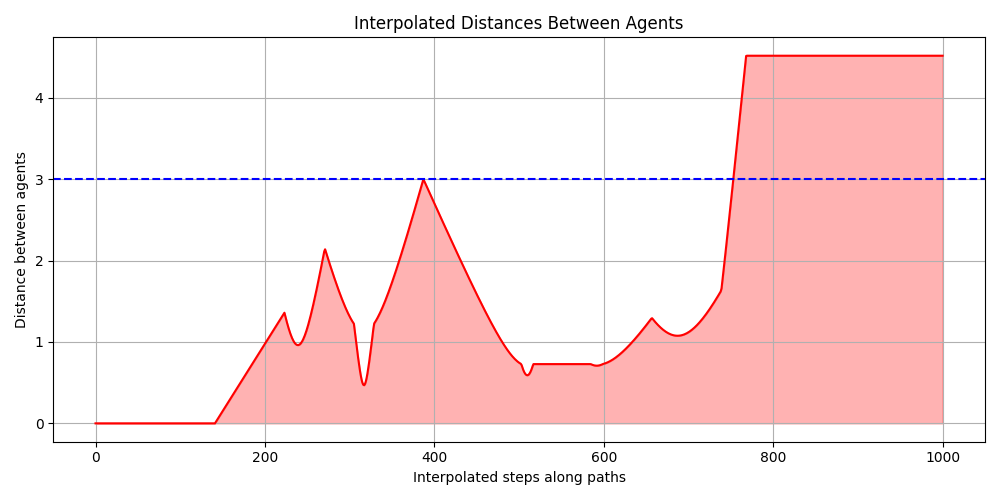
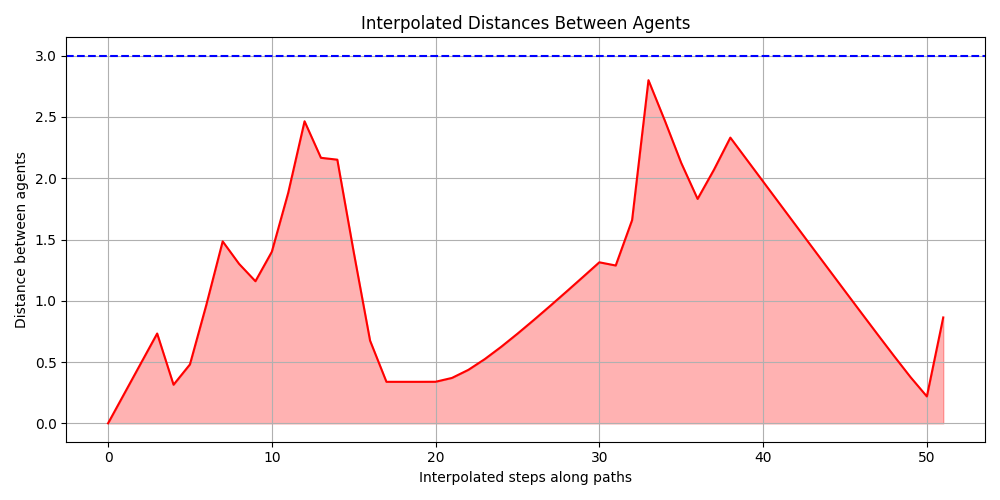
new interpolation function

diff --git a/utils.py b/utils.py
@@ -110,56 +110,68 @@ def assign_crowding_dist(population):
                     cur[1].fitness.crowding_dist += dist
 
 
-def interpolate_paths(path1: list, path2: list, positions: np.ndarray, num_samples: int = 100) -> tuple:
+def interpolate_paths(path1: list, path2: list, positions: np.ndarray, n: float) -> tuple:
+    interpolated_path1 = interpolate_path(path1, positions, n)
+    interpolated_path2 = interpolate_path(path2, positions, n)
+
+    if len(interpolated_path1) > len(interpolated_path2):
+        interpolated_path2 = np.vstack((interpolated_path2, [interpolated_path2[-1]] * (len(interpolated_path1) - len(interpolated_path2))))
+    elif len(interpolated_path2) > len(interpolated_path1):
+        interpolated_path1 = np.vstack((interpolated_path1, [interpolated_path1[-1]] * (len(interpolated_path2) - len(interpolated_path1))))
+
+    return [interpolated_path1, interpolated_path2]
+
+
+def interpolate_path(path: list, positions: np.ndarray, n: float) -> np.ndarray:
     """
-    Interpolate two paths such that the samples are equally spaced along both paths.
+    Create samples along the path at every n units of distance.
 
     Parameters
     ----------
-    path1 : list
-        The first path.
-    path2 : list
-        The second path.
+    path : list
+        The path to sample, represented as a list of indices to rewards.
     positions : np.ndarray
         The positions of the rewards.
-    num_samples : int
-        The number of samples to generate.
+    n : float
+        The distance interval between samples.
 
     Returns
     -------
-    tuple
-        Two arrays of interpolated points for path1 and path2.
+    np.ndarray
+        The array of sampled points along the path.
     """
+    
     def cumulative_distances(path):
+        """
+        Calculate the cumulative distances between consecutive points on the path.
+        """
         distances = [0.0]
         for i in range(len(path) - 1):
             start, end = positions[path[i]], positions[path[i + 1]]
             distances.append(distances[-1] + np.linalg.norm(end - start))
         return np.array(distances)
 
-    # Interpolate points for both paths
-    def interpolate_path(cum_dist, path):
-        interpolated_points = []
-        for d in sample_distances:
-            idx = np.searchsorted(cum_dist, d, side='right') - 1
-            idx = min(idx, len(path) - 2)  # Avoid index out of bounds
-            t = (d - cum_dist[idx]) / (cum_dist[idx + 1] - cum_dist[idx])
-            start, end = positions[path[idx]], positions[path[idx + 1]]
-            interpolated_points.append((1 - t) * start + t * end)
-        return np.array(interpolated_points)
+    # Calculate cumulative distances for the path
+    cum_dist = cumulative_distances(path)
     
-    # Calculate cumulative distances for both paths
-    cum_dist1 = cumulative_distances(path1)
-    cum_dist2 = cumulative_distances(path2)
+    # Define the sampling distances based on n
+    total_distance = cum_dist[-1]
+    sample_distances = np.arange(0, total_distance, n)
 
-    # Define the sampling points (shared between the two paths)
-    total_distance = max(cum_dist1[-1], cum_dist2[-1])
-    sample_distances = np.linspace(0, total_distance, num_samples)
-    
-    interpolated_path1 = interpolate_path(cum_dist1, path1)
-    interpolated_path2 = interpolate_path(cum_dist2, path2)
-    
-    return interpolated_path1, interpolated_path2
+    # List to store the sampled points
+    sampled_points = []
+
+    for d in sample_distances:
+        # Find the two points between which the sample will be interpolated
+        idx = np.searchsorted(cum_dist, d, side='right') - 1
+        idx = min(idx, len(path) - 2)  # Avoid index out of bounds
+        t = (d - cum_dist[idx]) / (cum_dist[idx + 1] - cum_dist[idx])  # Calculate interpolation factor
+
+        # Interpolate between the points
+        start, end = positions[path[idx]], positions[path[idx + 1]]
+        sampled_points.append((1 - t) * start + t * end)
+
+    return np.array(sampled_points)
 
 
 def translate_path_to_coordinates(path: list, positions: np.ndarray) -> list:

diff --git a/main.py b/main.py
@@ -2,7 +2,7 @@ from deap import base, creator, tools
 from sklearn.neighbors import KDTree
 from rewards.grid2 import rpositions, rvalues
 from scipy.spatial.distance import cdist
-from utils import calculate_mutation_probability, disentangle_paths, get_last_valid_idx, interpolate_paths
+from utils import calculate_mutation_probability, get_last_valid_idx, interpolate_paths
 import ga
 import plot
 import numpy as np
@@ -11,8 +11,8 @@ import argparse
 
 NUM_REWARDS = rpositions.shape[0]
 
-PSIZE = 800
-NGEN = 100
+PSIZE = 1200
+NGEN = 200
 
 CX = 0.9
 MX = 0.7
@@ -21,17 +21,20 @@ MXDECAY = 0.5
 MAXD = 3
 BUDGET = 100
 
+REINIT_RATE = 0.2
+
+
 distmx = cdist(rpositions, rpositions, metric="euclidean")
 kdtree = KDTree(rpositions)
 
 
-creator.create("FitnessMulti", base.Fitness, weights=(1.0, -10.0))
+creator.create("FitnessMulti", base.Fitness, weights=(10.0, -1.0))
 creator.create("Individual", np.ndarray, fitness=creator.FitnessMulti)
 
 toolbox = base.Toolbox()
 toolbox.register("individual", ga.init_individual, creator.Individual, NUM_REWARDS, rpositions, MAXD, kdtree)
 toolbox.register("population", tools.initRepeat, list, toolbox.individual)
-toolbox.register("mate", ga.cx_partialy_matched)
+toolbox.register("mate", ga.cx_individual)
 toolbox.register("mutate", ga.mut_individual, indpb=0.3)
 toolbox.register("select", tools.selNSGA2)
 toolbox.register("evaluate", ga.evaluate)
@@ -84,6 +87,12 @@ def main(toolbox, seed=None):
         for ind in offspring:
             ind.fitness.values = toolbox.evaluate(ind, rvalues, rpositions, distmx, MAXD, BUDGET)
         
+        # Reinitialize worst individuals
+        if gen % 10 == 0:
+            worst_ind = tools.selWorst(offspring, int(len(offspring) * REINIT_RATE))
+            for ind in worst_ind:
+                ind[:] = toolbox.individual()
+        
         # Selection NSGA-II
         population = toolbox.select(population + offspring, PSIZE)
 
@@ -129,5 +138,11 @@ if __name__ == "__main__":
     if args.plot_path:
         plot.plot_paths_with_rewards(rpositions, rvalues, [path1, path2], MAXD, args.save_plot)
 
+        interpolated_paths = interpolate_paths(path1, path2, rpositions, 1)
+        print('Norma')
+        print(np.linalg.norm(interpolated_paths[0] - interpolated_paths[1], axis=1))
+        print(np.any(np.linalg.norm(interpolated_paths[0] - interpolated_paths[1], axis=1) > MAXD))
+        plot.plot_interpolated_individual(interpolate_paths(path1, path2, rpositions, 1), MAXD, save_plot=args.save_plot)
+
     if args.plot_distances:
-        plot.plot_distances(path1, path2, rpositions, MAXD, 1000, save_plot=args.save_plot)
+        plot.plot_distances(path1, path2, rpositions, MAXD, 1, save_plot=args.save_plot)

diff --git a/ga.py b/ga.py
@@ -40,12 +40,6 @@ def mut_individual(individual: list, indpb: float) -> tuple:
 
 
 def cx_individual(ind1: list, ind2: list) -> tuple:
-    tools.cxPartialyMatched(ind1[0], ind2[0])
-    tools.cxPartialyMatched(ind1[1], ind2[1])
-    return ind1, ind2
-
-
-def cx_partialy_matched(ind1: list, ind2: list) -> tuple:
     size = ind1.shape[1]
     
     cxpoint1, cxpoint2 = sorted(random.sample(range(size), 2))
@@ -80,7 +74,7 @@ def evaluate(ind: list, rvalues: np.ndarray, rpositions: np.ndarray, distmx: np.
 
     penalize_dist = penalize_distance(ind, rpositions, maxdist, last_idxs)
     if penalize_dist:
-        return (0, np.inf)
+        return (0, 500)
 
     return (max_reward, min_distance)
 
@@ -117,7 +111,13 @@ def minimize_distance(ind: list, distmx: np.ndarray, last_idxs: list) -> float:
 
 
 def penalize_distance(ind: list, rpositions: np.ndarray, maxdist: float, last_idxs: list) -> float:
-    paths = interpolate_paths(ind[0][:last_idxs[0]], ind[1][:last_idxs[1]], rpositions, 60)
+    path1, path2 = list(ind[0][:last_idxs[0]]), list(ind[1][:last_idxs[1]])
+    path1.append(0)
+    path1.insert(0, 0)
+    path2.append(0)
+    path2.insert(0, 0)
+    
+    paths = interpolate_paths(path1, path2, rpositions, 1)
 
     distances = np.linalg.norm(paths[0] - paths[1], axis=1)
     return np.any(distances > maxdist)

diff --git a/plot.py b/plot.py
@@ -57,7 +57,6 @@ def plot_distances(path1, path2, positions, max_distance, num_samples=100, save_
     interpolated_paths = interpolate_paths(path1, path2, positions, num_samples)
     
     distances = np.linalg.norm(interpolated_paths[0] - interpolated_paths[1], axis=1)
-    distances = np.insert(distances, 0, 0)
     
     fig, ax = plt.subplots(figsize=(10, 5))
     ax.plot(distances, color='red')
@@ -118,6 +117,7 @@ def plot_pareto_front(population):
 def plot_interpolated_individual(
     individual: list,
     maxdist: float,
+    save_plot=None
 ):
     fig, ax = plt.subplots(figsize=(7, 5))
     plot_path(ax, individual[0], maxdist, color='orange')
@@ -128,5 +128,8 @@ def plot_interpolated_individual(
     plt.axis('equal')
     plt.ylim(0, None)
     plt.xlim(0, None)
+
+    if save_plot:
+        plt.savefig(f'{save_plot}_interpolated_path.png')
 
     plt.show()
